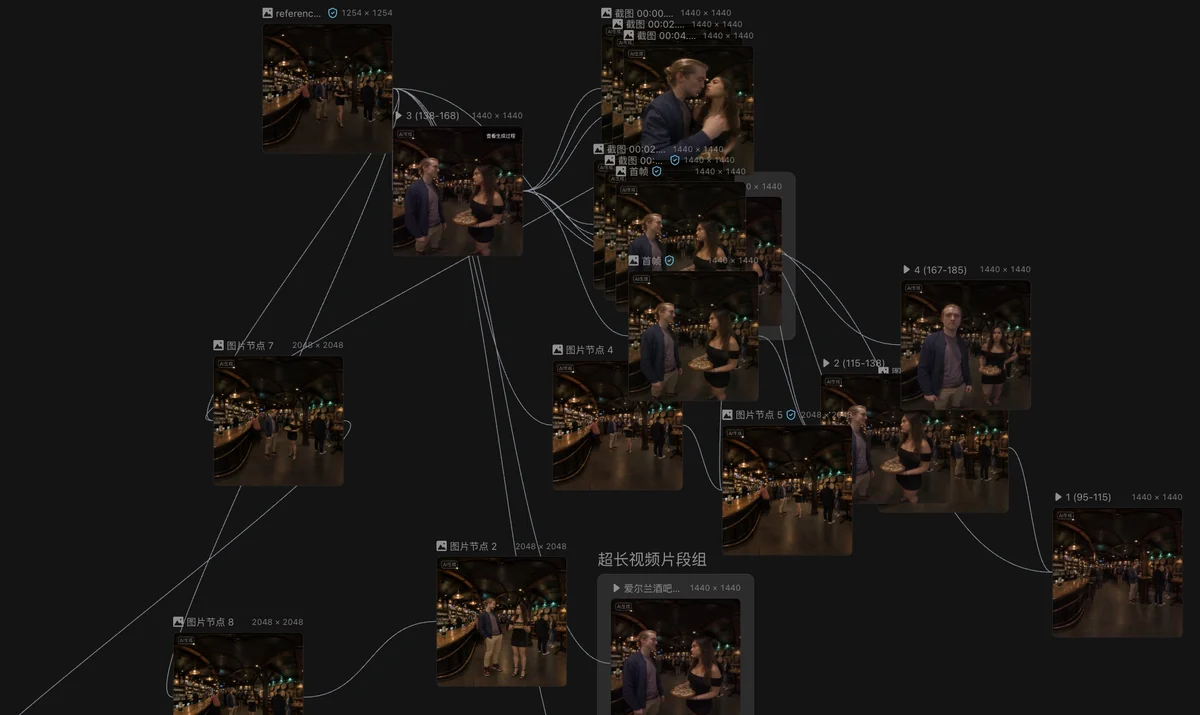
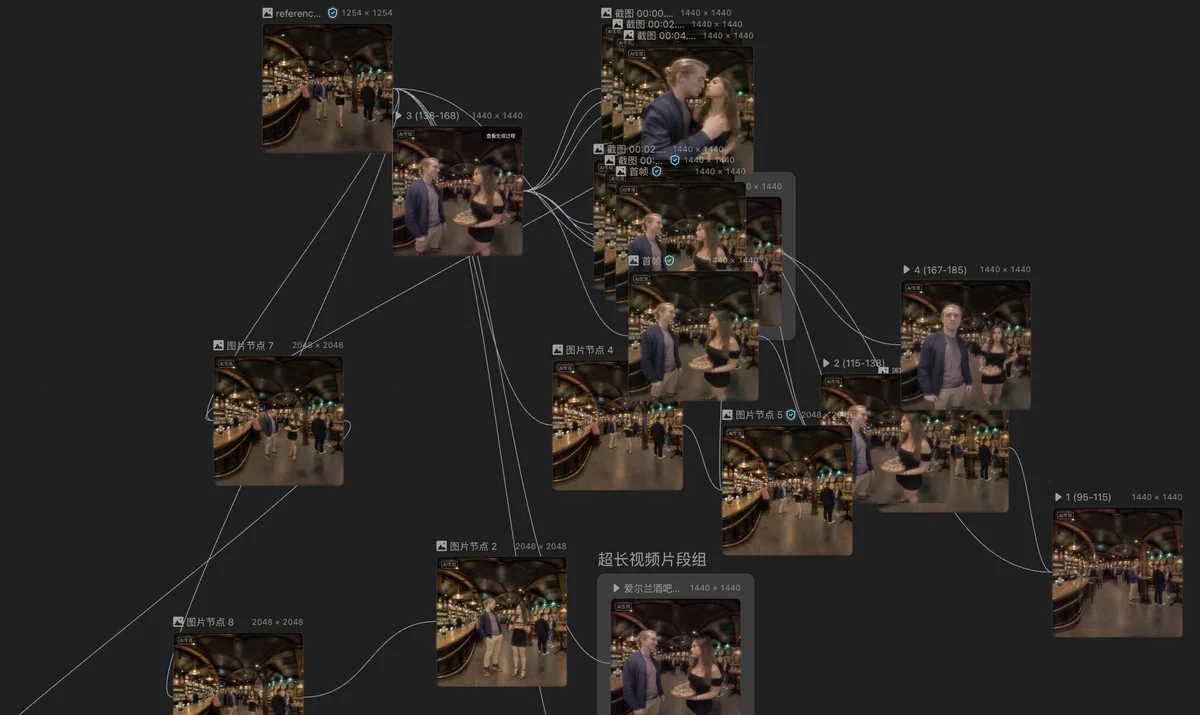
Homepage: brighter Scalable immersion figure
Lifts the pub scenes strongly and the app's dark canvas only slightly.

Claude-Session: https://claude.ai/code/session_01VU58C7U931dSNSJ6T6iguu

diff --git a/index.html b/index.html
@@ -513,7 +513,7 @@
             <a class="research-paper research-paper-ongoing research-paper-project-link" href="./projects/scalable-immersion/" data-type="Empirical" data-method="Validation study" aria-label="Open the Scalable immersion project workspace">
               <p>Li, R., et al. Scalable immersion? Validating AI-generated VR scenarios.</p>
               <div class="research-tags"><span>generative AI</span><span>immersive video</span><span>experimental validation</span></div>
-              <img class="research-paper-figure" src="assets/Figure_scalable_immersion.webp" alt="Node canvas of AI-generated 360-degree scenes of an Irish pub: a reference image, image nodes and video segments linked by lines">
+              <img class="research-paper-figure" src="assets/Figure_scalable_immersion.webp?v=20261012b" alt="Node canvas of AI-generated 360-degree scenes of an Irish pub: a reference image, image nodes and video segments linked by lines">
             </a>
           </section>
 
